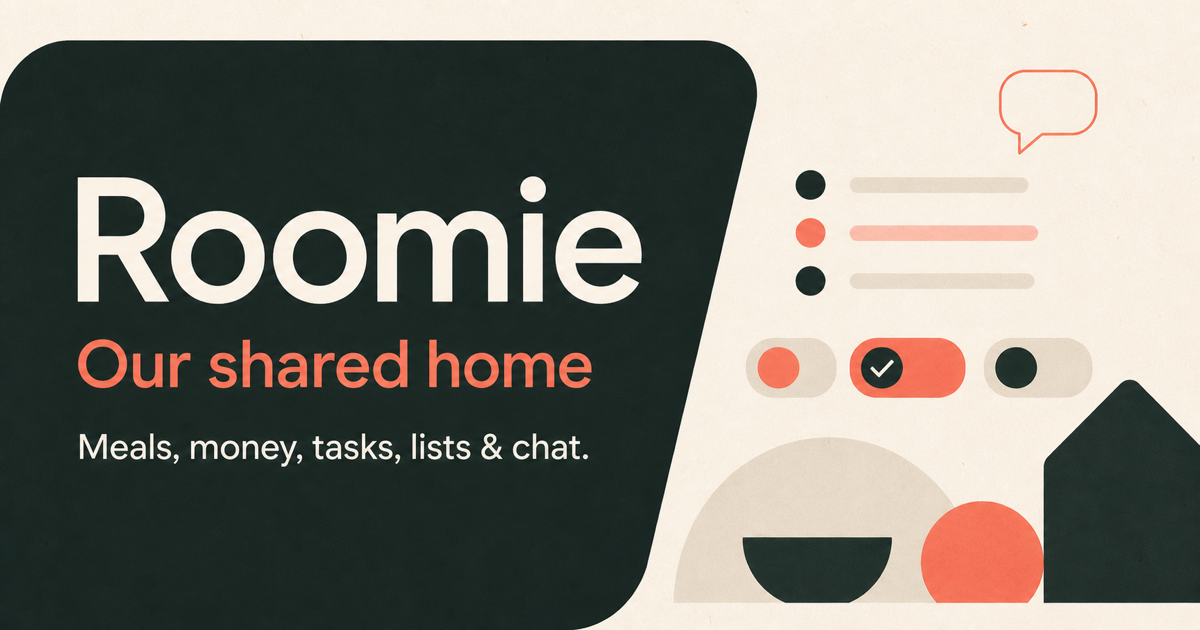
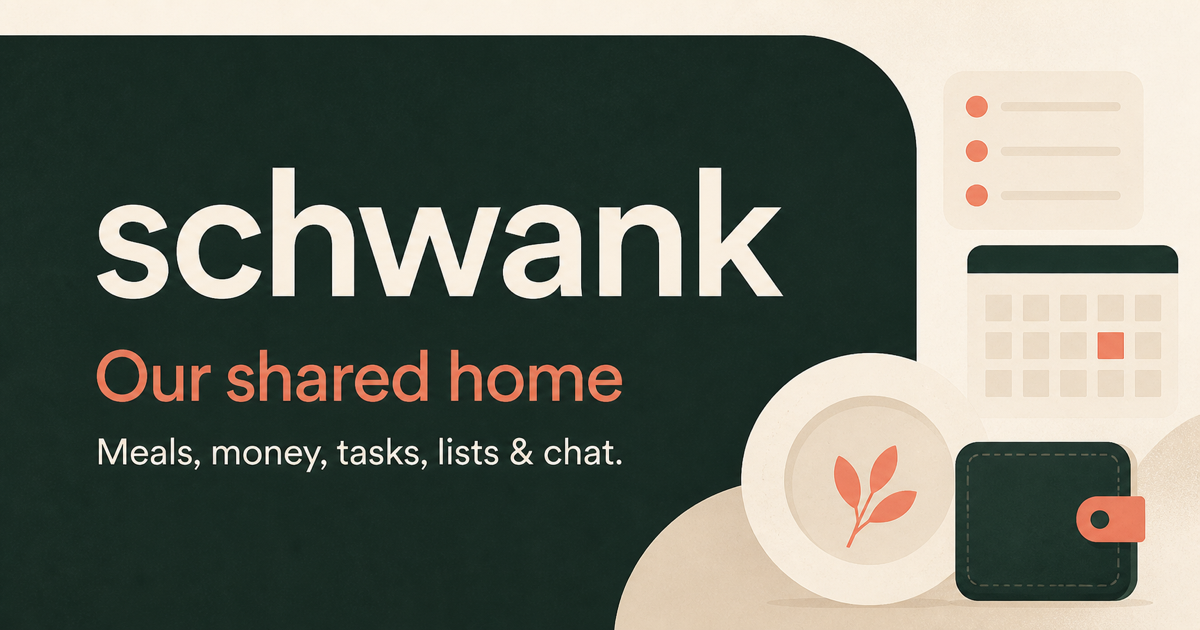
Rename app to schwank and add durable data layer

diff --git a/db/data.ts b/db/data.ts
@@ -1,8 +1,10 @@
 import { env } from 'cloudflare:workers';
 
+export type DataAction = Record<string, string | number | boolean>;
+
 const today = () => new Date().toISOString().slice(0, 10);
 
-async function setup() {
+export async function ensureDatabase() {
   const db = env.DB;
   await db.batch([
     db.prepare('CREATE TABLE IF NOT EXISTS members (id TEXT PRIMARY KEY, name TEXT NOT NULL, initials TEXT NOT NULL, color TEXT NOT NULL, calorie_goal INTEGER NOT NULL DEFAULT 2200, protein_goal INTEGER NOT NULL DEFAULT 140, carb_goal INTEGER NOT NULL DEFAULT 250, fat_goal INTEGER NOT NULL DEFAULT 70)'),
@@ -16,6 +18,8 @@ async function setup() {
     db.prepare('CREATE INDEX IF NOT EXISTS idx_expenses_date ON expenses(spent_on)'),
     db.prepare('CREATE INDEX IF NOT EXISTS idx_messages_created ON messages(created_at)'),
   ]);
+  await db.prepare('PRAGMA optimize').run();
+
   const existing = await db.prepare('SELECT COUNT(*) AS count FROM members').first<{ count: number }>();
   if (!existing?.count) {
     await db.batch([
@@ -41,8 +45,8 @@ async function setup() {
   }
 }
 
-export async function GET() {
-  await setup();
+export async function readHouseholdData() {
+  await ensureDatabase();
   const db = env.DB;
   const [members, nutrition, tasks, expenses, organisers, messages] = await Promise.all([
     db.prepare('SELECT id,name,initials,color,calorie_goal AS calorieGoal,protein_goal AS proteinGoal,carb_goal AS carbGoal,fat_goal AS fatGoal FROM members').all(),
@@ -52,21 +56,18 @@ export async function GET() {
     db.prepare('SELECT id,list,label,done FROM organiser_items ORDER BY id DESC').all(),
     db.prepare('SELECT m.id,m.member_id AS memberId,m.body,m.created_at AS createdAt,u.name,u.initials,u.color FROM messages m JOIN members u ON u.id=m.member_id ORDER BY m.created_at').all(),
   ]);
-  return Response.json({ members: members.results, nutrition: nutrition.results, tasks: tasks.results, expenses: expenses.results, organisers: organisers.results, messages: messages.results });
+  return { members: members.results, nutrition: nutrition.results, tasks: tasks.results, expenses: expenses.results, organisers: organisers.results, messages: messages.results };
 }
 
-export async function POST(request: Request) {
-  await setup();
+export async function writeHouseholdData(body: DataAction) {
+  await ensureDatabase();
   const db = env.DB;
-  const body = await request.json<Record<string, string | number | boolean>>();
-  let result;
-  if (body.type === 'nutrition') result = await db.prepare('INSERT INTO nutrition_entries (member_id,label,calories,protein,carbs,fat,eaten_on) VALUES (?,?,?,?,?,?,?)').bind(body.memberId,body.label,body.calories,body.protein,body.carbs,body.fat,today()).run();
-  else if (body.type === 'task') result = await db.prepare('INSERT INTO tasks (title,status,assignee_id,tag,due) VALUES (?,?,?,?,?)').bind(body.title,'todo',body.assigneeId,body.tag || 'Home',body.due || 'This week').run();
-  else if (body.type === 'task-status') result = await db.prepare('UPDATE tasks SET status=? WHERE id=?').bind(body.status,body.id).run();
-  else if (body.type === 'expense') result = await db.prepare('INSERT INTO expenses (label,amount,category,paid_by,spent_on) VALUES (?,?,?,?,?)').bind(body.label,body.amount,body.category,body.paidBy,today()).run();
-  else if (body.type === 'organiser') result = await db.prepare('INSERT INTO organiser_items (list,label,done) VALUES (?,?,0)').bind(body.list,body.label).run();
-  else if (body.type === 'organiser-toggle') result = await db.prepare('UPDATE organiser_items SET done=? WHERE id=?').bind(body.done ? 1 : 0,body.id).run();
-  else if (body.type === 'message') result = await db.prepare('INSERT INTO messages (member_id,body,created_at) VALUES (?,?,?)').bind(body.memberId,body.body,new Date().toISOString()).run();
-  else return Response.json({ error: 'Unknown action' }, { status: 400 });
-  return Response.json({ ok: true, result });
+  if (body.type === 'nutrition') return db.prepare('INSERT INTO nutrition_entries (member_id,label,calories,protein,carbs,fat,eaten_on) VALUES (?,?,?,?,?,?,?)').bind(body.memberId,body.label,body.calories,body.protein,body.carbs,body.fat,today()).run();
+  if (body.type === 'task') return db.prepare('INSERT INTO tasks (title,status,assignee_id,tag,due) VALUES (?,?,?,?,?)').bind(body.title,'todo',body.assigneeId,body.tag || 'Home',body.due || 'This week').run();
+  if (body.type === 'task-status') return db.prepare('UPDATE tasks SET status=? WHERE id=?').bind(body.status,body.id).run();
+  if (body.type === 'expense') return db.prepare('INSERT INTO expenses (label,amount,category,paid_by,spent_on) VALUES (?,?,?,?,?)').bind(body.label,body.amount,body.category,body.paidBy,today()).run();
+  if (body.type === 'organiser') return db.prepare('INSERT INTO organiser_items (list,label,done) VALUES (?,?,0)').bind(body.list,body.label).run();
+  if (body.type === 'organiser-toggle') return db.prepare('UPDATE organiser_items SET done=? WHERE id=?').bind(body.done ? 1 : 0,body.id).run();
+  if (body.type === 'message') return db.prepare('INSERT INTO messages (member_id,body,created_at) VALUES (?,?,?)').bind(body.memberId,body.body,new Date().toISOString()).run();
+  throw new Error('Unknown data action');
 }

diff --git a/app/household-app.tsx b/app/household-app.tsx
@@ -39,14 +39,14 @@ export default function HouseholdApp() {
   const [loading,setLoading] = useState(true);
   const [notice,setNotice] = useState('');
   const load = async () => {
-    try { const response=await fetch('/api/roomie'); if(!response.ok) throw new Error(); setData(await response.json()); }
+    try { const response=await fetch('/api/schwank'); if(!response.ok) throw new Error(); setData(await response.json()); }
     catch { setNotice('Shared storage is reconnecting. Your workspace is still available.'); }
     finally { setLoading(false); }
   };
   useEffect(()=>{ void load(); },[]);
   const post = async (payload:Record<string,string|number|boolean>) => {
     setNotice('Saving…');
-    const response=await fetch('/api/roomie',{method:'POST',headers:{'content-type':'application/json'},body:JSON.stringify(payload)});
+    const response=await fetch('/api/schwank',{method:'POST',headers:{'content-type':'application/json'},body:JSON.stringify(payload)});
     if(response.ok){ await load(); setNotice('Saved for everyone'); setTimeout(()=>setNotice(''),1800); }
     else setNotice('Could not save that. Try again.');
   };
@@ -59,14 +59,14 @@ export default function HouseholdApp() {
 
   return <main className="app-shell">
     <aside className="sidebar">
-      <div className="brand"><span className="brand-mark"><Sparkles size={18}/></span><div><strong>Roomie</strong><span>Our shared space</span></div></div>
+      <div className="brand"><span className="brand-mark"><Sparkles size={18}/></span><div><strong>schwank</strong><span>Our shared space</span></div></div>
       <nav className="side-nav" aria-label="Main navigation">{nav.map(item=>{const Icon=item.icon; const count=item.label==='Tasks'?data.tasks.filter(t=>t.status!=='done').length:item.label==='Chat'?Math.min(data.messages.length,9):0; return <button onClick={()=>setActive(item.label)} className={active===item.label?'nav-item active':'nav-item'} key={item.label}><Icon size={18}/><span>{item.label}</span>{count>0&&<em>{count}</em>}</button>})}</nav>
       <div className="house-card"><div className="house-illustration"><Home size={24}/></div><strong>Maple House</strong><span>Move-in in 12 days</span><div className="avatar-stack">{data.members.map(m=><Avatar key={m.id} member={m} small/>)}</div></div>
       <button className="profile-row"><Avatar member={current}/><span><strong>{current.name}</strong><small>House member</small></span><MoreHorizontal size={18}/></button>
     </aside>
 
     <section className="workspace">
-      <header className="topbar"><button className="mobile-brand" onClick={()=>setActive('Overview')}><span className="brand-mark"><Sparkles size={17}/></span>Roomie</button><label className="search"><Search size={17}/><input placeholder="Search the household…"/></label><div className="topbar-actions"><button className="icon-button" aria-label="Add a task" onClick={()=>setActive('Tasks')}><Plus size={19}/></button><label className="person-picker"><Avatar member={current} small/><select value={memberId} onChange={e=>setMemberId(e.target.value)} aria-label="Current household member">{data.members.map(m=><option key={m.id} value={m.id}>{m.name}</option>)}</select><ChevronDown size={14}/></label></div></header>
+      <header className="topbar"><button className="mobile-brand" onClick={()=>setActive('Overview')}><span className="brand-mark"><Sparkles size={17}/></span>schwank</button><label className="search"><Search size={17}/><input placeholder="Search the household…"/></label><div className="topbar-actions"><button className="icon-button" aria-label="Add a task" onClick={()=>setActive('Tasks')}><Plus size={19}/></button><label className="person-picker"><Avatar member={current} small/><select value={memberId} onChange={e=>setMemberId(e.target.value)} aria-label="Current household member">{data.members.map(m=><option key={m.id} value={m.id}>{m.name}</option>)}</select><ChevronDown size={14}/></label></div></header>
       {notice&&<div className="toast" role="status">{notice}</div>}
       <div className="content">
         {loading ? <div className="loading-state"><LoaderCircle className="spin"/>Opening Maple House…</div> : active==='Overview' ? <Overview data={data} current={current} totals={totals} totalSpend={totalSpend} taskPercent={taskPercent} setActive={setActive}/> : active==='Nutrition' ? <NutritionView data={data} current={current} memberId={memberId} setMemberId={setMemberId} totals={totals} post={post}/> : active==='Tasks' ? <TasksView data={data} post={post}/> : active==='Spending' ? <SpendingView data={data} total={totalSpend} memberId={memberId} post={post}/> : active==='Organisers' ? <OrganisersView data={data} post={post}/> : <ChatView data={data} current={current} post={post}/>} 

diff --git a/app/layout.tsx b/app/layout.tsx
@@ -13,16 +13,17 @@ const geistMono = Geist_Mono({
 });
 
 export const metadata: Metadata = {
-  title: 'Roomie — Our shared home',
+  metadataBase: new URL('https://schwank.cvtps2dq.chatgpt.site'),
+  title: 'schwank — Our shared home',
   description: 'One cozy place for meals, money, tasks, lists, and household chat.',
   openGraph: {
-    title: 'Roomie — Our shared home',
+    title: 'schwank — Our shared home',
     description: 'Meals, money, tasks, lists & chat.',
-    images: [{ url: '/og.png', width: 1200, height: 630, alt: 'Roomie — Our shared home' }],
+    images: [{ url: '/og.png', width: 1200, height: 630, alt: 'schwank — Our shared home' }],
   },
   twitter: {
     card: 'summary_large_image',
-    title: 'Roomie — Our shared home',
+    title: 'schwank — Our shared home',
     description: 'Meals, money, tasks, lists & chat.',
     images: ['/og.png'],
   },

diff --git a/app/api/schwank/route.ts b/app/api/schwank/route.ts
@@ -1,0 +1,16 @@
+import { readHouseholdData, writeHouseholdData, type DataAction } from '@/db/data';
+
+export async function GET() {
+  return Response.json(await readHouseholdData());
+}
+
+export async function POST(request: Request) {
+  try {
+    const action = (await request.json()) as DataAction;
+    const result = await writeHouseholdData(action);
+    return Response.json({ ok: true, result });
+  } catch (error) {
+    const message = error instanceof Error ? error.message : 'Unable to save data';
+    return Response.json({ error: message }, { status: 400 });
+  }
+}

diff --git a/README.md b/README.md
@@ -1,0 +1,24 @@
+# schwank
+
+A private shared-home dashboard for nutrition, Kanban tasks, spending, organisers, and household chat.
+
+## Data layer
+
+All household records are stored in a durable D1/SQLite database through `db/data.ts`. The browser only keeps temporary interface state; meals, tasks, expenses, organiser items, members, and chat messages survive app and host restarts.
+
+The schema lives in `db/schema.ts`, generated migrations live in `drizzle/`, and the API is exposed at `/api/schwank`.
+
+## Local development
+
+Requires Node.js 22.13 or newer.
+
+```bash
+npm install
+npm run dev
+```
+
+Create a production build with:
+
+```bash
+npm run build
+```
